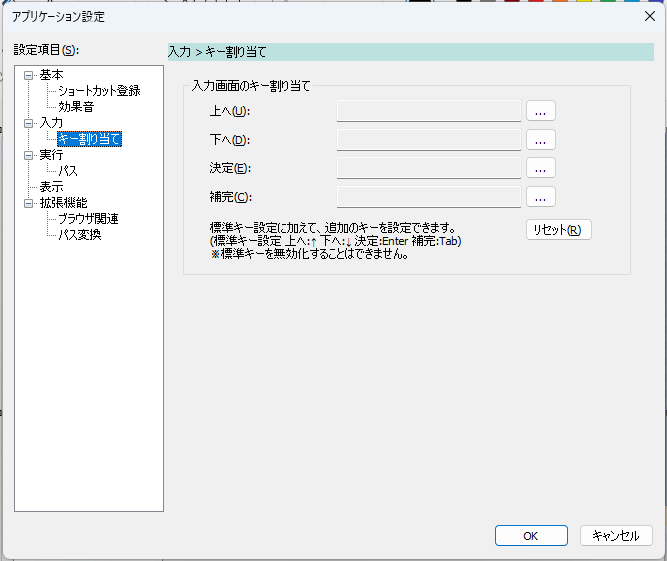
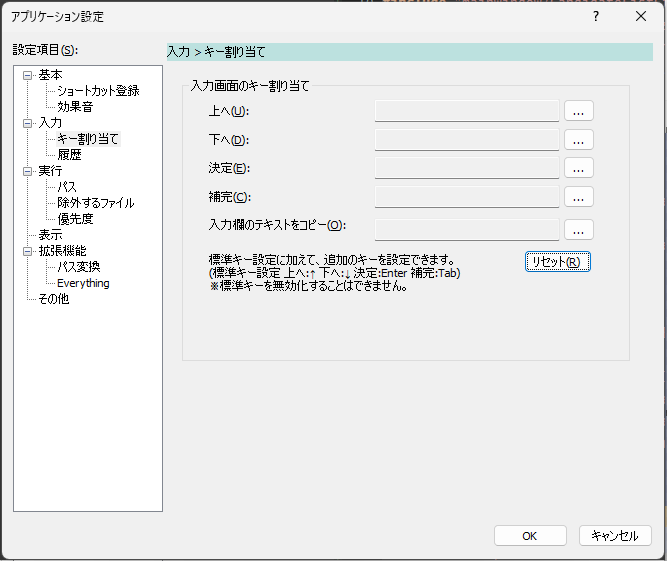
入力欄のテキストをクリップボードにコピーするキー割り当てを追加

diff --git a/soyokaze/settingwindow/InputWindowKeySettingPage.cpp b/soyokaze/settingwindow/InputWindowKeySettingPage.cpp
@@ -46,6 +46,9 @@ void InputWindowKeySettingPage::OnOK()
 
 	settingsPtr->Set(_T("MainWindowKey:Compl-Modifiers"), (int)mHotKeyAttrCompl.GetModifiers());
 	settingsPtr->Set(_T("MainWindowKey:Compl-VirtualKeyCode"), (int)mHotKeyAttrCompl.GetVKCode());
+
+	settingsPtr->Set(_T("MainWindowKey:Copy-Modifiers"), (int)mHotKeyAttrCopy.GetModifiers());
+	settingsPtr->Set(_T("MainWindowKey:Copy-VirtualKeyCode"), (int)mHotKeyAttrCopy.GetVKCode());
 	__super::OnOK();
 }
 
@@ -57,6 +60,7 @@ void InputWindowKeySettingPage::DoDataExchange(CDataExchange* pDX)
 	DDX_Text(pDX, IDC_EDIT_HOTKEY_DOWN, mHotKeyDown);
 	DDX_Text(pDX, IDC_EDIT_HOTKEY_ENTER, mHotKeyEnter);
 	DDX_Text(pDX, IDC_EDIT_HOTKEY_COMPL, mHotKeyCompl);
+	DDX_Text(pDX, IDC_EDIT_HOTKEY_COPY, mHotKeyCopy);
 }
 
 BEGIN_MESSAGE_MAP(InputWindowKeySettingPage, SettingPage)
@@ -64,6 +68,7 @@ BEGIN_MESSAGE_MAP(InputWindowKeySettingPage, SettingPage)
 	ON_COMMAND(IDC_BUTTON_HOTKEY_DOWN, OnButtonHotKeyDown)
 	ON_COMMAND(IDC_BUTTON_HOTKEY_ENTER, OnButtonHotKeyEnter)
 	ON_COMMAND(IDC_BUTTON_HOTKEY_COMPL, OnButtonHotKeyCompl)
+	ON_COMMAND(IDC_BUTTON_HOTKEY_COPY, OnButtonHotKeyCopy)
 	ON_COMMAND(IDC_BUTTON_RESET, OnButtonReset)
 END_MESSAGE_MAP()
 
@@ -84,6 +89,7 @@ bool InputWindowKeySettingPage::UpdateStatus()
 	mHotKeyDown = mHotKeyAttrDown.ToString();
 	mHotKeyEnter = mHotKeyAttrEnter.ToString();
 	mHotKeyCompl = mHotKeyAttrCompl.ToString();
+	mHotKeyCopy = mHotKeyAttrCopy.ToString();
 	return true;
 }
 
@@ -106,6 +112,10 @@ void InputWindowKeySettingPage::OnEnterSettings()
 	mHotKeyAttrCompl = HOTKEY_ATTR(settingsPtr->Get(_T("MainWindowKey:Compl-Modifiers"), 0),
 	                            settingsPtr->Get(_T("MainWindowKey:Compl-VirtualKeyCode"), -1));
 	mHotKeyCompl = mHotKeyAttrCompl.ToString();
+
+	mHotKeyAttrCopy = HOTKEY_ATTR(settingsPtr->Get(_T("MainWindowKey:Copy-Modifiers"), 0),
+	                            settingsPtr->Get(_T("MainWindowKey:Copy-VirtualKeyCode"), -1));
+	mHotKeyCopy = mHotKeyAttrCopy.ToString();
 }
 
 bool InputWindowKeySettingPage::GetHelpPageId(CString& id)
@@ -179,12 +189,29 @@ void InputWindowKeySettingPage::OnButtonHotKeyCompl()
 	UpdateData(FALSE);
 }
 
+void InputWindowKeySettingPage::OnButtonHotKeyCopy()
+{
+	UpdateData();
+
+	HotKeyDialog dlg(mHotKeyAttrCopy, this);
+	dlg.SetTargetName(_T("コピー"));
+	if (dlg.DoModal() != IDOK) {
+		return ;
+	}
+
+	dlg.GetAttribute(mHotKeyAttrCopy);
+
+	UpdateStatus();
+	UpdateData(FALSE);
+}
+
 void InputWindowKeySettingPage::OnButtonReset()
 {
 	mHotKeyAttrUp = HOTKEY_ATTR();
 	mHotKeyAttrDown = HOTKEY_ATTR();
 	mHotKeyAttrEnter = HOTKEY_ATTR();
 	mHotKeyAttrCompl = HOTKEY_ATTR();
+	mHotKeyAttrCopy = HOTKEY_ATTR();
 
 	UpdateStatus();
 	UpdateData(FALSE);

diff --git a/soyokaze/mainwindow/LauncherMainWindow.cpp b/soyokaze/mainwindow/LauncherMainWindow.cpp
@@ -10,6 +10,7 @@
 #include "mainwindow/CandidateListCtrl.h"
 #include "commands/core/CommandRepository.h"
 #include "commands/core/CommandParameter.h"
+#include "commands/common/Clipboard.h"
 #include "afxdialogex.h"
 #include "utility/WindowPosition.h"
 #include "utility/Path.h"
@@ -217,6 +218,7 @@ BEGIN_MESSAGE_MAP(LauncherMainWindow, CDialogEx)
 	ON_MESSAGE(WM_APP+13, OnUserMessageQueryComplete)
 	ON_MESSAGE(WM_APP+14, OnUserMessageBlockDeactivateOnUnfocus)
 	ON_MESSAGE(WM_APP+15, OnUserMessageUpdateCandidate)
+	ON_MESSAGE(WM_APP+16, OnUserMessageCopyText)
 	ON_WM_CONTEXTMENU()
 	ON_WM_ENDSESSION()
 	ON_WM_TIMER()
@@ -446,6 +448,19 @@ LRESULT LauncherMainWindow::OnUserMessageUpdateCandidate(WPARAM wParam, LPARAM l
 
 	// 候補欄を更新するため、再度検索リクエストを出す
 	QueryAsync();
+	return 0;
+}
+
+LRESULT LauncherMainWindow::OnUserMessageCopyText(WPARAM wParam, LPARAM lParam)
+{
+	UNREFERENCED_PARAMETER(wParam);
+	UNREFERENCED_PARAMETER(lParam);
+
+	// 入力欄のテキストをコピー
+	launcherapp::commands::common::Clipboard::Copy(in->mCommandStr);
+
+	// コピーした後は非表示にする
+	HideWindow();
 	return 0;
 }
 

diff --git a/soyokaze/mainwindow/MainWindowHotKey.cpp b/soyokaze/mainwindow/MainWindowHotKey.cpp
@@ -59,6 +59,18 @@ public:
 	}
 };
 
+class MainWindowHotKey::CopyHandler : public launcherapp::core::CommandHotKeyHandler
+{
+public:
+	virtual ~CopyHandler() {}
+	CString GetDisplayName() override { return _T("__mainwindow_copy"); }
+	bool Invoke() override {
+		SharedHwnd h;
+		PostMessage(h.GetHwnd(), WM_APP+16, 0, 0);
+		return true;
+	}
+};
+
 ////////////////////////////////////////////////////////////////////////////////
 ////////////////////////////////////////////////////////////////////////////////
 ////////////////////////////////////////////////////////////////////////////////
@@ -121,6 +133,12 @@ bool MainWindowHotKey::Register()
 	                            settingsPtr->Get(_T("MainWindowKey:Compl-VirtualKeyCode"), -1));
 	if (hotKeyAttrCompl.GetVKCode() != -1) {
 		manager->Register(this, new ComplHandler, hotKeyAttrCompl);
+	}
+
+	auto hotKeyAttrCopy = HotKeyAttr(settingsPtr->Get(_T("MainWindowKey:Copy-Modifiers"), 0),
+	                            settingsPtr->Get(_T("MainWindowKey:Copy-VirtualKeyCode"), -1));
+	if (hotKeyAttrCopy.GetVKCode() != -1) {
+		manager->Register(this, new CopyHandler, hotKeyAttrCopy);
 	}
 	return true;
 }

diff --git a/soyokaze/resource.h b/soyokaze/resource.h
@@ -189,6 +189,7 @@
 #define IDC_EDIT_DIR                    1025
 #define IDC_EDIT_HOTKEY_COMPL           1025
 #define IDC_BUTTON_BROWSEDIR3           1026
+#define IDC_EDIT_HOTKEY_COPY            1026
 #define IDC_COMBO_SHOWTYPE              1027
 #define IDC_STATIC_STATUSMSG            1028
 #define IDC_STATIC_PARAM0               1029
@@ -235,6 +236,8 @@
 #define IDC_BUTTON_HOTKEY_COMPL2        1057
 #define IDC_BUTTON_RESET                1057
 #define IDC_CHECK_ALTERNATELISTCOLOR    1058
+#define IDC_BUTTON_HOTKEY_COMPL3        1058
+#define IDC_BUTTON_HOTKEY_COPY          1058
 #define IDC_CHECK_SHIFT                 1059
 #define IDC_BUTTON_SOUNDEXECUTE         1060
 #define IDC_CHECK_DRAWICONONCANDIDATE   1061

diff --git a/soyokaze/settingwindow/InputWindowKeySettingPage.h b/soyokaze/settingwindow/InputWindowKeySettingPage.h
@@ -21,6 +21,9 @@ public:
 	// 補完
 	CString mHotKeyCompl;
 	HOTKEY_ATTR mHotKeyAttrCompl;
+	// コピー
+	CString mHotKeyCopy;
+	HOTKEY_ATTR mHotKeyAttrCopy;
 
 protected:
 	bool UpdateStatus();
@@ -40,6 +43,7 @@ protected:
 	afx_msg void OnButtonHotKeyDown();
 	afx_msg void OnButtonHotKeyEnter();
 	afx_msg void OnButtonHotKeyCompl();
+	afx_msg void OnButtonHotKeyCopy();
 	afx_msg void OnButtonReset();
 };
 

diff --git a/soyokaze/mainwindow/LauncherMainWindow.h b/soyokaze/mainwindow/LauncherMainWindow.h
@@ -112,7 +112,8 @@ protected:
 	LRESULT OnUserMessageBlockDeactivateOnUnfocus(WPARAM wParam, LPARAM lParam);
 	LRESULT OnUserMessageUpdateCandidate(WPARAM wParam, LPARAM lParam);
 	LRESULT OnMessageSessionChange(WPARAM wParam, LPARAM lParam);
-	 
+	LRESULT OnUserMessageCopyText(WPARAM wParam, LPARAM lParam);
+
 	DECLARE_MESSAGE_MAP()
 
 public:

diff --git a/soyokaze/mainwindow/MainWindowHotKey.h b/soyokaze/mainwindow/MainWindowHotKey.h
@@ -11,6 +11,7 @@ class MainWindowHotKey : public AppPreferenceListenerIF
 	class DownHandler;
 	class EnterHandler;
 	class ComplHandler;
+	class CopyHandler;
 public:
 	MainWindowHotKey();
 	virtual ~MainWindowHotKey();

diff --git a/doc/help.md b/doc/help.md
@@ -354,6 +354,9 @@ mp3ファイルのみ指定可能(他の音声ファイルには非対応)
   - 入力画面での入力内容を確定させるキーを割り当てる
 - `補完`
   - 入力画面での入力内容を補完するキーを割り当てる
+- `入力欄のテキストをコピー`
+  - 入力欄に入力された文字列をクリップボードにコピーする  
+コピーした後、入力欄は非表示になる
 - `リセット`
   - 上記のキー割り当てをすべて解除する
 

diff --git a/CHANGELOG.md b/CHANGELOG.md
@@ -11,6 +11,8 @@
   - この機能追加に伴い、デフォルト動作を「キーワードをコマンド登録」に変更
 - システムコマンド`copyclip`を追加
   - 後続で指定した文字列をクリップボードにコピーする
+- 入力欄のテキストをクリップボードにコピーするためのキー割り当てを設定できるようにした
+  - `アプリケーション設定`>`入力`>`キー割り当て`>`入力欄のテキストをコピー`
 
 ### Changed
 
